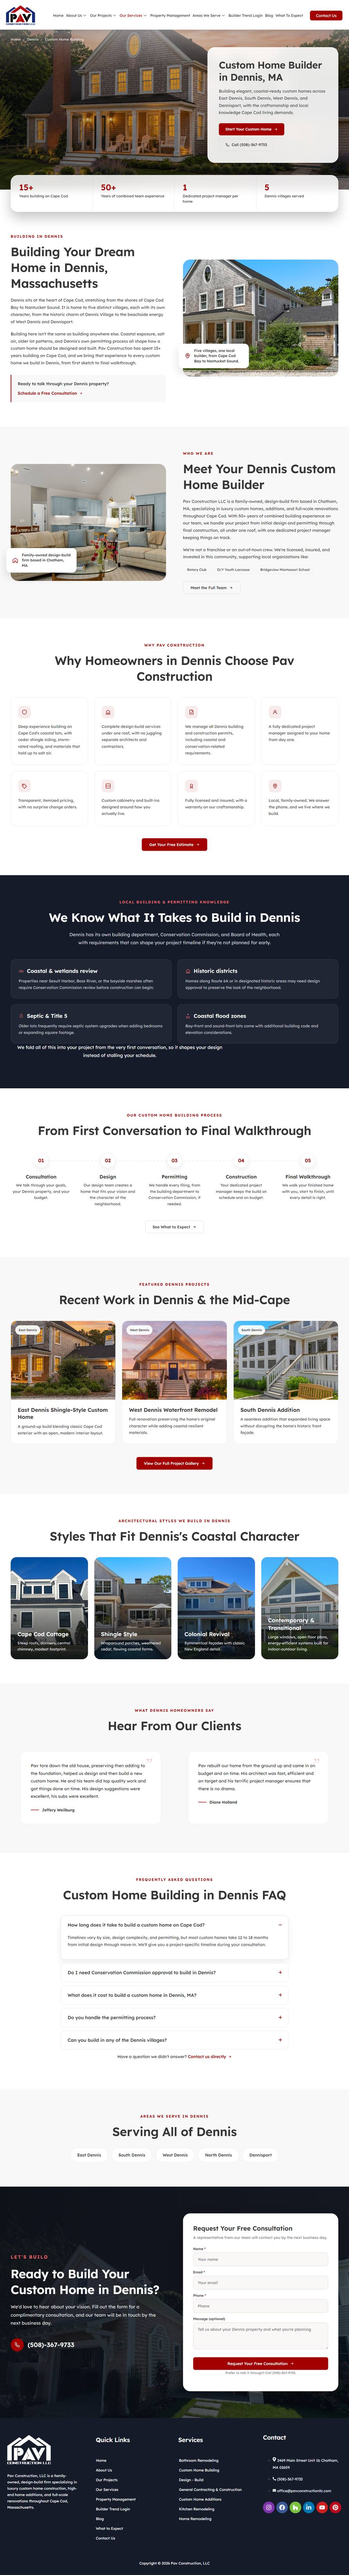
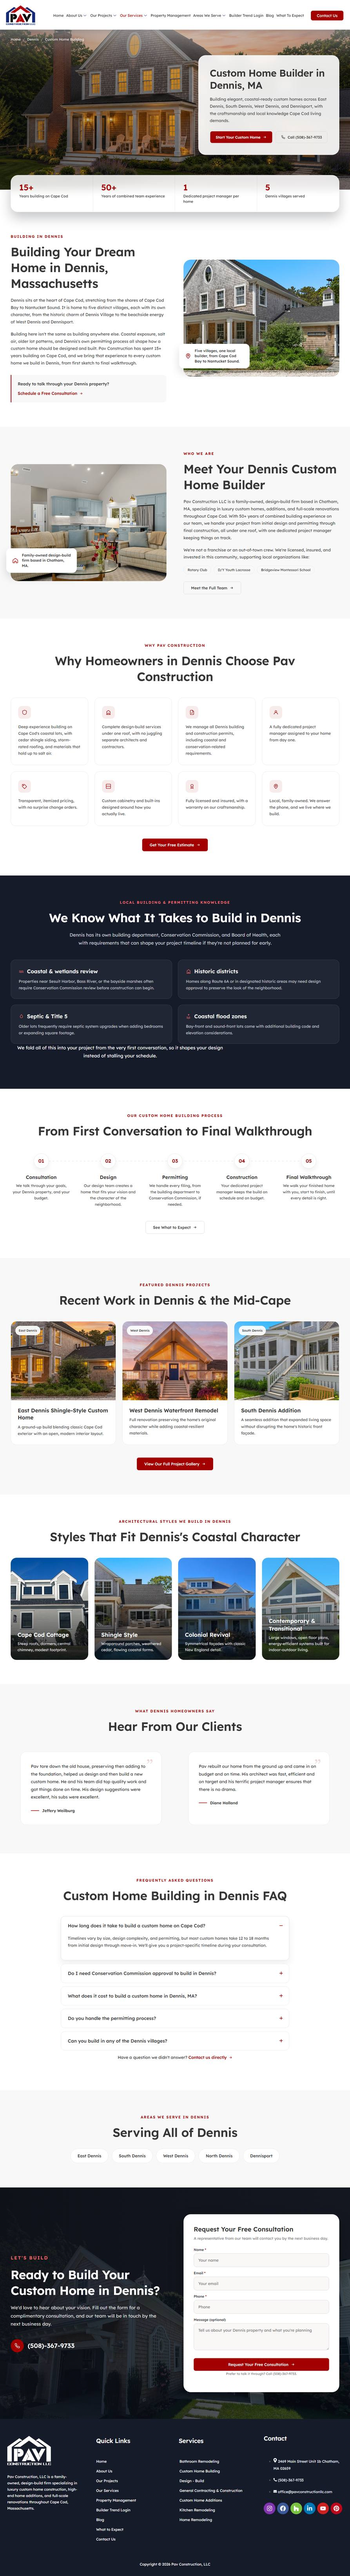
Adjust grid layout and button styles for improved responsiveness and aesthetics

diff --git a/dennis-custom-home-building.html b/dennis-custom-home-building.html
@@ -2295,7 +2295,7 @@ z-index:1
   background:linear-gradient(90deg,rgba(12,15,22,.42) 0%,rgba(12,15,22,.18) 45%,rgba(12,15,22,.30) 100%);
 }
 .pav-hero-grid{
-  display:grid;grid-template-columns:1fr minmax(0,540px);
+  display:grid;grid-template-columns:1fr minmax(0,580px);
   align-items:center;
 }
 .pav-hero-card{
@@ -2323,8 +2323,8 @@ z-index:1
   font-size:17px;line-height:1.72;color:var(--pav-body);
   margin:0 0 30px;
 }
-.pav-hero-cta{display:flex;flex-wrap:wrap;gap:14px;}
-.pav-hero-cta .pav-btn{padding:16px 26px;font-size:15.5px;}
+.pav-hero-cta{display:flex;flex-wrap:wrap;gap:14px;justify-content:center;}
+.pav-hero-cta .pav-btn{padding:15px 22px;font-size:15px;}
 
 /* Frosted stat bar */
 .pav-stats{
